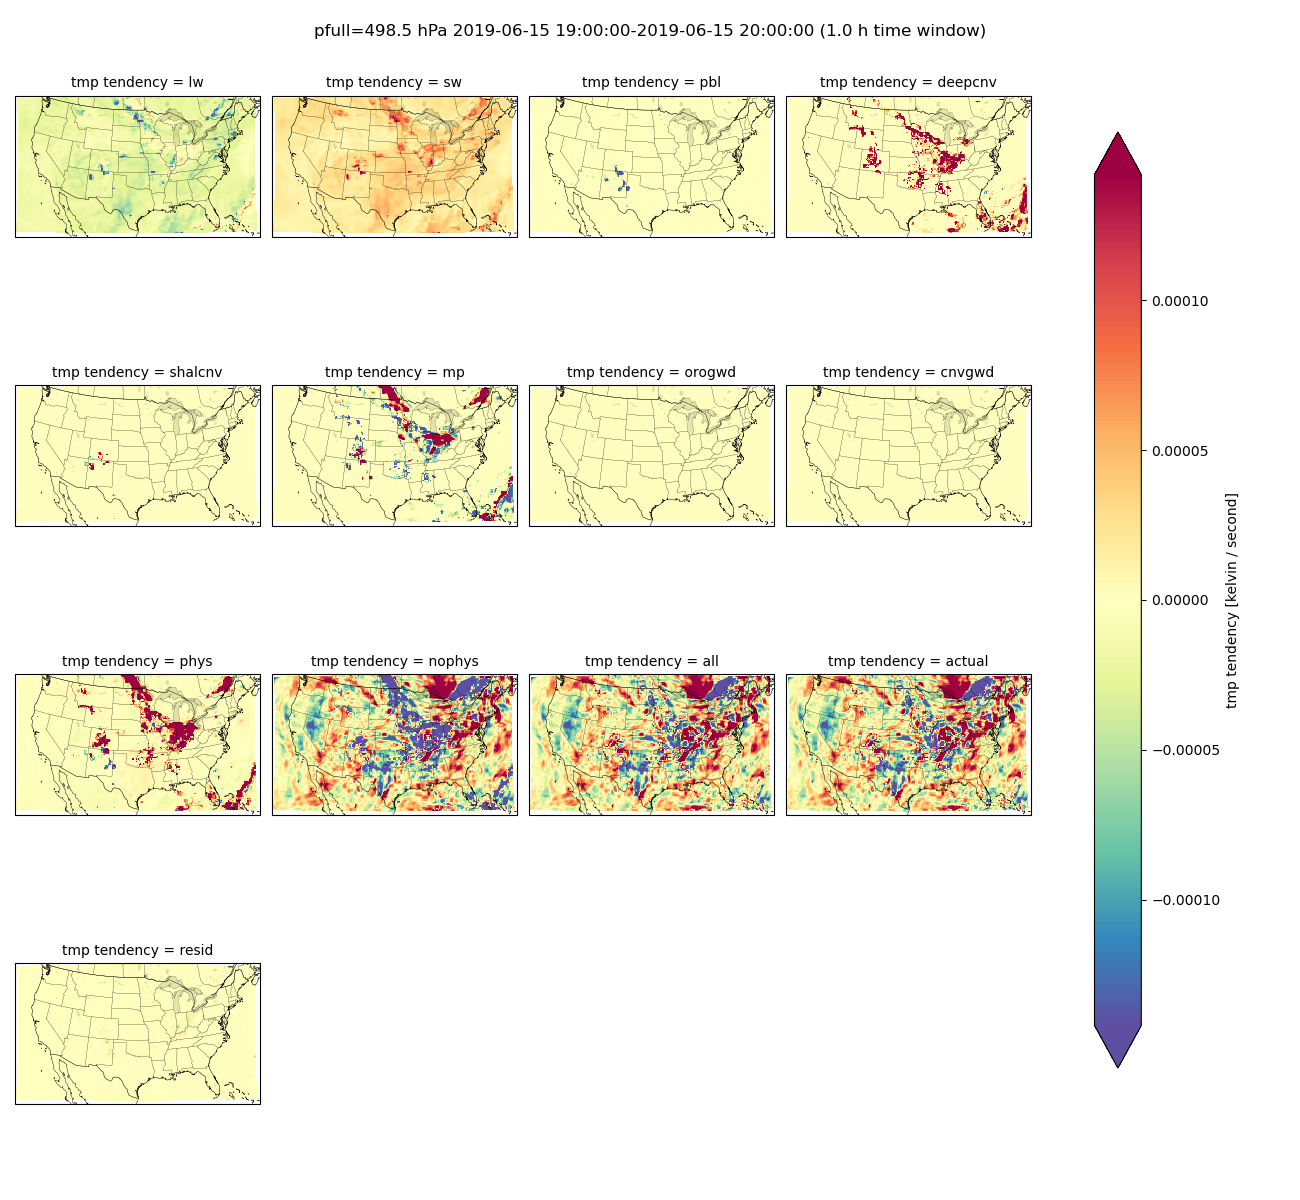
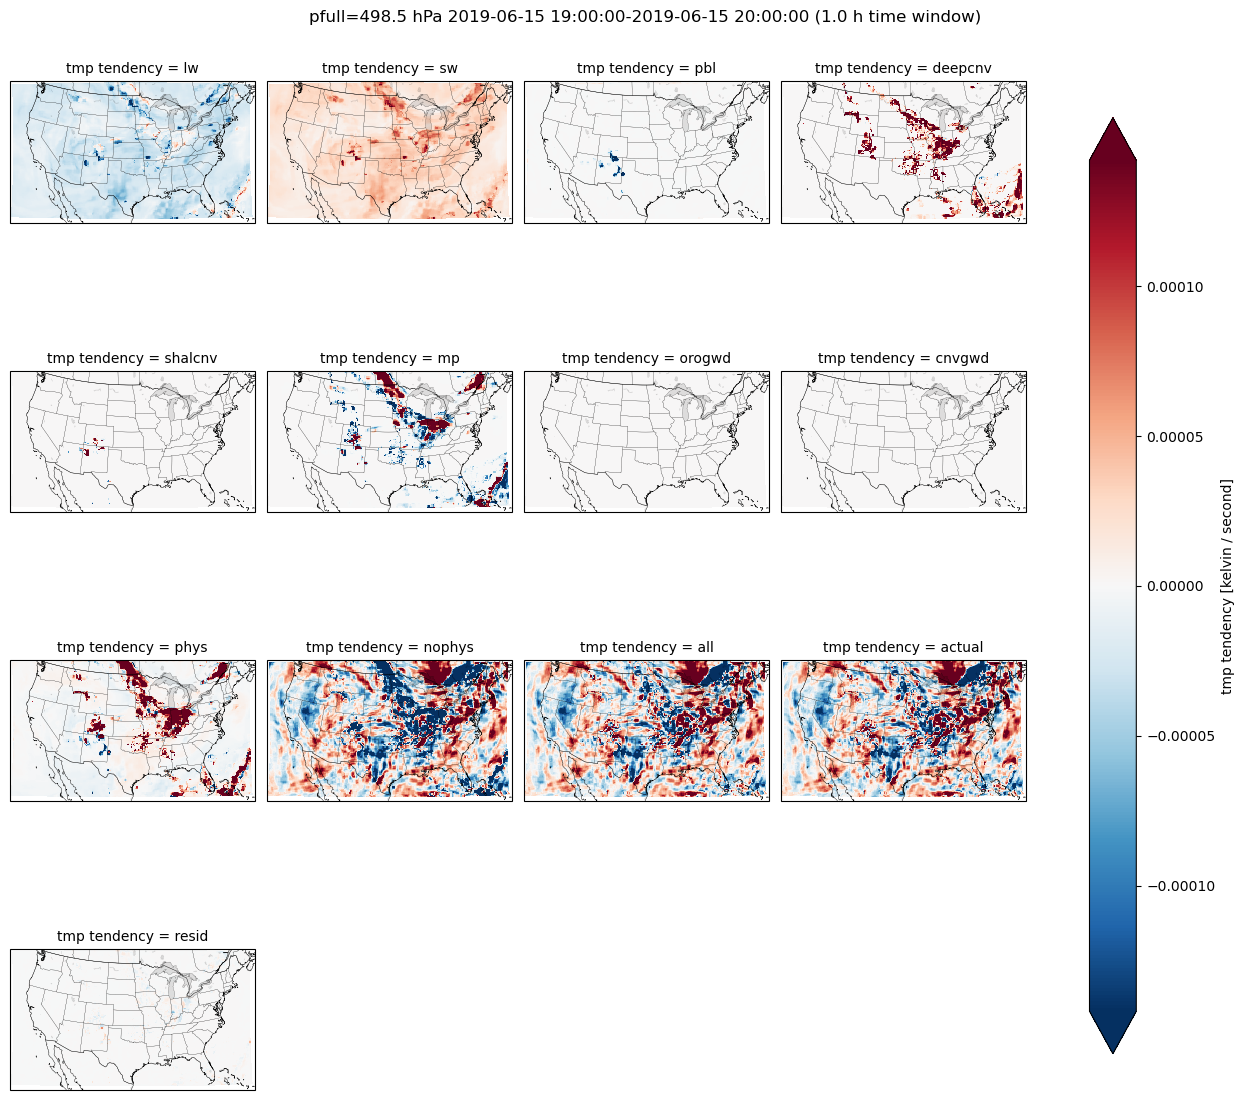
RdBu_r for all test figures

diff --git a/metplotpy/contributed/fv3_physics_tend/planview_fv3.py b/metplotpy/contributed/fv3_physics_tend/planview_fv3.py
@@ -94,15 +94,19 @@ def planview(fv3, historyfile, gridfile, statevarname, tendencytype, **kwargs):
 
     # Open input file
     pattern = r".*tile\d.nc$"
-    if re.match(pattern, historyfile):
+    if re.match(pattern, str(historyfile)): # str handles pathlib.Path
         logging.warning("FV3-style historyfile")
         fv3ds = physics_tend.get_fv3ds(historyfile, fv3)
     else:
         logging.debug("open %s", historyfile)
         fv3ds = xarray.open_dataset(historyfile)
 
-    assert fv3ds.grid_xt.equals(gds.grid_xt), f"history grid_xt {fv3ds.grid_xt.size} no match {gridfile}"
-    assert fv3ds.grid_yt.equals(gds.grid_yt), f"history grid_yt {fv3ds.grid_yt.size} no match {gridfile}"
+    assert fv3ds.grid_xt.equals(
+        gds.grid_xt
+    ), f"history grid_xt {fv3ds.grid_xt.size} no match {gridfile}"
+    assert fv3ds.grid_yt.equals(
+        gds.grid_yt
+    ), f"history grid_yt {fv3ds.grid_yt.size} no match {gridfile}"
 
     if subtract:
         logging.info("subtracting %s", subtract)
@@ -133,6 +137,7 @@ def planview(fv3, historyfile, gridfile, statevarname, tendencytype, **kwargs):
     logging.info(tendencies.max())
 
     if fv3["tendencies_were_zeroed_and_averaged_after_every_output"]:
+        logging.warning("assume tendencies_were_zeroed_and_averaged_after_every_output")
         assert time0 in fv3ds.time, (
             f"time0 {time0} not in history file. Closest is "
             f"{fv3ds.time.sel(time=time0, method='nearest').time.data}"
@@ -253,8 +258,12 @@ def planview(fv3, historyfile, gridfile, statevarname, tendencytype, **kwargs):
         # Default # of cols is square root of # of panels
         ncols = int(np.ceil(np.sqrt(len(da2plot))))
 
-    da2plot = da2plot.load()  # avoid UserWarning: Sending large graph of size 324.02 MiB.
-    da2plot = da2plot.squeeze(dim="pfull")  # Avoid ValueError in pcolormesh().
+    da2plot = (
+        da2plot.load()
+    )  # avoid multiple UserWarning: Sending large graph of size 324.02 MiB.
+    # pfull is size-1 or ValueError: cannot select a dimension to squeeze out which has length greater than one
+    if da2plot.pfull.size == 1:
+        da2plot = da2plot.squeeze(dim="pfull")  # Avoid ValueError in pcolormesh().
 
     # central lon/lat from https://github.com/NOAA-EMC/regional_workflow/blob/
     # release/public-v1/ush/Python/plot_allvars.py

diff --git a/metplotpy/contributed/fv3_physics_tend/cross_section_vert.py b/metplotpy/contributed/fv3_physics_tend/cross_section_vert.py
@@ -104,8 +104,12 @@ def cross_section_vert(fv3, historyfile, gridfile, statevarname, **kwargs):
         logging.debug("open %s", historyfile)
         fv3ds = xarray.open_dataset(historyfile)
 
-    assert fv3ds.grid_xt.equals(gds.grid_xt), f"history grid_xt {fv3ds.grid_xt.size} no match {gridfile}"
-    assert fv3ds.grid_yt.equals(gds.grid_yt), f"history grid_yt {fv3ds.grid_yt.size} no match {gridfile}"
+    assert fv3ds.grid_xt.equals(
+        gds.grid_xt
+    ), f"history grid_xt {fv3ds.grid_xt.size} no match {gridfile}"
+    assert fv3ds.grid_yt.equals(
+        gds.grid_yt
+    ), f"history grid_yt {fv3ds.grid_yt.size} no match {gridfile}"
 
     if subtract:
         logging.info("subtracting %s", subtract)
@@ -136,6 +140,7 @@ def cross_section_vert(fv3, historyfile, gridfile, statevarname, **kwargs):
     logging.info(tendencies.max())
 
     if fv3["tendencies_were_zeroed_and_averaged_after_every_output"]:
+        logging.warning("assume tendencies_were_zeroed_and_averaged_after_every_output")
         assert time0 in fv3ds.time, (
             f"time0 {time0} not in history file. Closest is "
             f"{fv3ds.time.sel(time=time0, method='nearest').time.data}"
@@ -255,6 +260,8 @@ def cross_section_vert(fv3, historyfile, gridfile, statevarname, **kwargs):
     cross = cross_section(da2plot, startpt, endpt)
 
     logging.debug("plot pcolormesh")
+    if robust:
+        logging.warning("compute colormap range with 2nd and 98th percentiles")
     # normalized width and height of inset. Shrink colorbar to provide space.
     wid_inset, hgt_inset = 0.18, 0.18
     pcm = cross.squeeze().plot.pcolormesh(

diff --git a/metplotpy/contributed/fv3_physics_tend/vert_profile_fv3.py b/metplotpy/contributed/fv3_physics_tend/vert_profile_fv3.py
@@ -101,8 +101,12 @@ def vert_profile(fv3, historyfile, gridfile, statevarname, **kwargs):
         logging.debug("open %s", historyfile)
         fv3ds = xarray.open_dataset(historyfile)
 
-    assert fv3ds.grid_xt.equals(gds.grid_xt), f"history grid_xt {fv3ds.grid_xt.size} no match {gridfile}"
-    assert fv3ds.grid_yt.equals(gds.grid_yt), f"history grid_yt {fv3ds.grid_yt.size} no match {gridfile}"
+    assert fv3ds.grid_xt.equals(
+        gds.grid_xt
+    ), f"history grid_xt {fv3ds.grid_xt.size} no match {gridfile}"
+    assert fv3ds.grid_yt.equals(
+        gds.grid_yt
+    ), f"history grid_yt {fv3ds.grid_yt.size} no match {gridfile}"
 
     if subtract:
         logging.info("subtracting %s", subtract)
@@ -133,6 +137,7 @@ def vert_profile(fv3, historyfile, gridfile, statevarname, **kwargs):
     logging.info(tendencies.max())
 
     if fv3["tendencies_were_zeroed_and_averaged_after_every_output"]:
+        logging.warning("assume tendencies_were_zeroed_and_averaged_after_every_output")
         assert time0 in fv3ds.time, (
             f"time0 {time0} not in history file. Closest is "
             f"{fv3ds.time.sel(time=time0, method='nearest').time.data}"
